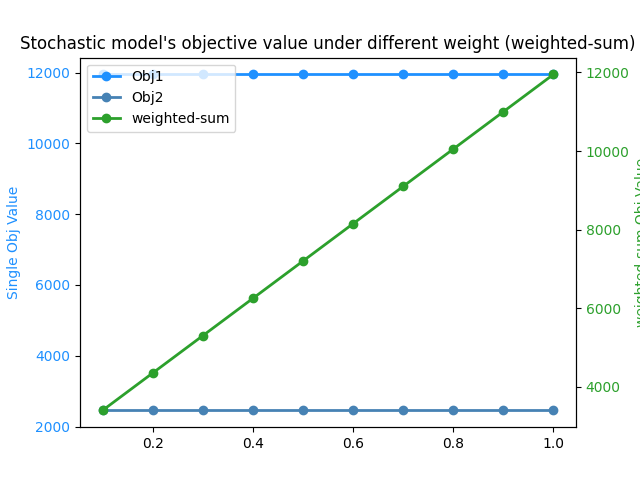
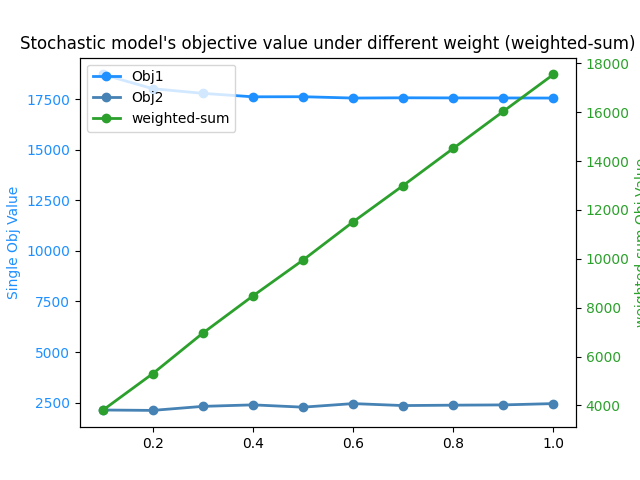
fix: report sp-model weight figures; weight analysis in report

diff --git a/sp_model.py b/sp_model.py
@@ -282,7 +282,8 @@ def draw(optimize_method: str):
     if optimize_method == 'weighted-sum':
         solvers = [solve(w, OptimizationMethod.WEIGHTED_SUM) for w in weights]
         # weighted Objs
-        wObjs = [weights[i] * solvers[i][1] + (1 - weights[i]) * solvers[i][2] for i in to_range(weights)]
+        wObjs = [weights[i] * solvers[i][1].getValue()
+        + (1 - weights[i]) * solvers[i][2].getValue() for i in to_range(weights)]
 
     elif optimize_method == 'lp-metric':
         m, obj1, obj2 = solve(1, OptimizationMethod.WEIGHTED_SUM)
@@ -294,13 +295,13 @@ def draw(optimize_method: str):
         solvers = [solve(w, OptimizationMethod.LP_METRIC,
                          objstars) for w in weights]
         # note that in lp-metrics, we need (Obj - Obj*) / Obj* instead of native Obj
-        Obj1_s = [(s[1] - obj1_star) / obj1_star for s in solvers]
-        Obj2_s = [(s[2] - obj2_star) / obj2_star for s in solvers]
+        Obj1_s = [(s[1].getValue() - obj1_star) / obj1_star for s in solvers]
+        Obj2_s = [(s[2].getValue() - obj2_star) / obj2_star for s in solvers]
         # lp-metric Objs
         wObjs = [weights[i] * Obj1_s[i] + (1 - weights[i]) * Obj2_s[i] for i in to_range(weights)]
 
-    Obj1s = [s[1] for s in solvers]
-    Obj2s = [s[2] for s in solvers]
+    Obj1s = [s[1].getValue() for s in solvers]
+    Obj2s = [s[2].getValue() for s in solvers]
     # 1/2 subplots, double y-axis
     fig, ax1 = plt.subplots()
     # drawing the obj1, obj2 in ax1 (greater numeric scale)
@@ -346,10 +347,10 @@ def draw(optimize_method: str):
 
 
 # %%
-# draw('lp-metric')
+draw('lp-metric')
 
-# %%
-# draw('weighted-sum')
+#%%
+draw('weighted-sum')
 # %%
 # wieght = 0.1
 # best_cs_n = -1

diff --git a/report.md b/report.md
@@ -14,7 +14,20 @@ Team B
 ## Table of Contents
 1. [Introduction](#Introduction)
     1.1 [Background: Disaster Relief Logistics](#Background:-Disaster-Relief-Logistics)
-    1.2 [Motivation](#Motivation)
+    1.2 [Abbreviation](#Abbreviation)
+    1.3 [Motivation](#Motivation)
+    1.4 [Problem Definition](#Problem-Definition)
+2. [Methodology](#Methodology)
+    2.1 [Formulation](#Formulation)
+    2.2 [Multi-Objective Optimization](#Multi-Objective-Optimization)
+3. [Case Study](#CaseStudy)
+    3.1 [Data Collection](#DataCollection)
+    3.2 [Implementation Details](#Implementation-Details)
+    3.3 [Result Analysis](#Result-Analysis)
+    3.4 [Weight Analysis](#weight-analysis)
+    3.5 [Constraint on Number of CS/RDC Analysis](#Constraint-on-Number-of-CS/RDC-Analysis)
+4. [Issues](#issues)
+5. [References](#References)
 
 
 ## Introduction
@@ -187,7 +200,7 @@ $$\min w * \frac{Obj_1 - Obj_1^*}{Obj_1^*} + (1 - w) * \frac{Obj_2 - Obj_2^*}{Ob
 
 
 
-## Data Collection and Analysis Result
+## Case Study
 
 ### Data Collection
 We use the data in case study from Amiri's paper. The scene is set at a well-populated region of Iran located near sourthern Central Alborz, with several active faults surrounding (hence the disaster is imagined to be an earthquake).
@@ -210,11 +223,11 @@ Note that $I$ is a subset of $J$, and $J = K$ in terms of the distance statistic
 
 <figure>
   <img
-  src="./figures/data/supplier_capacity.png">
+  src="./figures/data/supplier_capacity.png" width="200">
   <figcaption>Figure 2. Supplier and their capacity with respect to commodity type</figcaption>
 </figure>
   <img
-  src="./figures/data/rho_remains_usable.png">
+  src="./figures/data/rho_remains_usable.png" width="300">
 
   Figure 5. $\rho_{jcs}$ and $\rho_{ics}$; the fraction of stocked materials that remain usable (unit: %).
 
@@ -227,23 +240,25 @@ Note that $I$ is a subset of $J$, and $J = K$ in terms of the distance statistic
 
 <figure>
   <img
-  src="./figures/data/demand_under_scenario.png">
+  src="./figures/data/demand_under_scenario.png"
+  width="300">
   <figcaption>Figure 4. Demands of each AA under different scenarios.</figcaption>
 </figure>
-
-
-## Result Analysis
-
-### Modeling
-We start simple with a **deterministic model** first. It assumes that in the response phase, we have perfect knowledge of which scenario would happen, so the *demand, transportation cost, and the fraction of stocked materials that remain usable* are pre-determined. In the following experiments, we choose to use the scenario $s1$. We do not extensively discuss on this model but record its statistics for reference.
-Our final model is the **stochastic model**, which has the same setting as the deterministic one in preparedness phase; in response phase, it considers 4 scenarios representing earthquakes of different epicenters and potential earthquake intensity.
-
 
 ### Implementation Details
 We decide to solve the problem using Gurobi Optimization solver with the academic license. The environment is Gurobi 10.0.0 with Python 3.7.12 under the *Linux x86_64 system with 12th Gen Intel(R) Core(TM) i7-12700*.
 In Gurobi implementation, we use the `setObjectiveN()`  that defaults to weighted-sum method according to the official documentation ([gurobi doc 9.1: Working with Multiple Objective](https://www.gurobi.com/documentation/9.1/refman/working_with_multiple_obje.html)) for both weighted-sum and Lp-metric strategies.
 
-### Solution
+### Result Analysis
+
+#### Modeling
+We start simple with a **deterministic model** first. It assumes that in the response phase, we have perfect knowledge of which scenario would happen, so the *demand, transportation cost, and the fraction of stocked materials that remain usable* are pre-determined. In the following experiments, we choose to use the scenario $s1$. We do not extensively discuss on this model but record its statistics for reference.
+Our final model is the **stochastic model**, which has the same setting as the deterministic one in preparedness phase; in response phase, it considers 4 scenarios representing earthquakes of different epicenters and potential earthquake intensity.
+
+
+
+
+#### Solution
 
 The final stochastic programming model has 4,422 continuous variables and 210 binary variables; 666 quadratic constraints and 12 general constraints. The optimization procedure takes 0.81 seconds for over 4,000 simplex iterations. The below shows the statistics for the configuration:
 ```
@@ -253,35 +268,35 @@ number of CS (epsilon) = 8
 optimization method: Lp-metric
 ```
 As seen in figure [alpha_beta], there are 8 CSs and 7 RDCs opened, which means that each node in candidate node set $J$ must be either a RDC or a CS. It is observed that all of the values in $Q_ijc$ are zeros, meaning that none of the commodities are stored in the preparedness phase. All the shippings start from the response phase.
+![alt text](./figures/results/alpha_beta.png)
 Figure [X_ijcs] shows the amount of commodity $c$ shipped from supplier $i$ to RDC in $j$ under scenario $s$. Here we <span style="color:red"> discover that RDC does not receive anything in both phases, so the figure only shows columns of CSs.</span> We could see that the supplier in Sari ships 117 units of food under all scenarios; 39 units of shelter under scneario 3 and 4; 0 water under scneario 1 and 117 units of water under the rest, to the CS in the same province. Averagely speaking, the 3 commdoites sent to the same CS are usually supplied by the same supplier.
-
+![alt text](./figures/results/X_ijcs.png)
 Figure [Y_jkcs] shows the amount of commodity $c$ shipped from RDC $j$ to AA $k$ under scenario $s$. It is calculated that commodity water and food have 636 units per shipping, while shelter ships 184.24 per shipping. It may be that Shelter costs the most for transportation compared to the other 2.
 
-Figure [I_kcs] and [b_kcs] represent the inventory and shortage amount held at AA $k$ under scenario $s$. The shortage amount 
 
-![alt text](./figures/results/alpha_beta.png)
 <!-- <img src="./figures/results/alpha_beta.png" width="300" /> -->
 
-
-![alt text](./figures/results/X_ijcs.png)
 ![alt text](./figures/results/Y_jkcs.png)
 
+Figure [I_kcs] and [b_kcs] represent the inventory and shortage amount held at AA $k$ under scenario $s$. The inventory balance equation constraint regulates that $I_{kcs} - b_{kcs}$ should equal to the total amount of commdoities sent in minus those in store; holding inventory and having shortage all have a penalty cost exerted on objective 1. We could observed that due to high transportation cost on shelters, the shortage of shelter is prevalent for all AAs and no AAs hold shelter inventory.
 
-![alt text](./figures/results/b_kcs_0.png)
-![alt text](./figures/results/b_kcs_1.png)
 ![alt text](./figures/results/I_kcs_0.png)
 ![alt text](./figures/results/I_kcs_1.png)
+![alt text](./figures/results/b_kcs_0.png)
+![alt text](./figures/results/b_kcs_1.png)
 
 ### Weight Analysis
-@Nana
+
 | | Lp-metric  &nbsp; &nbsp;| Weighted-sum &nbsp; &nbsp; |
 | :------------ | :-------------------------:| :-------------:|
 Deterministic |![](./figures/dm_lp-metric.png)  |  ![](./figures/dm_weighted-sum.png)
 Stochastic |![](./figures/sp_lp-metric.png)  |  ![](./figures/sp_weighted-sum.png)
 
-Before analysis, it should be first noted that the numeric scales for both objectives are different; Objective 1 accumulates all costs so it is at around $10^4$, while Objective 2 is around $10^3$ (5 times smaller). Therefore, the Lp-metric which aims to minimize the digression between the objectives and their ideal solution is more suitable for this problem.
+With single-objective optimization, we can minimize the total costs to $11,950$ ($10^6\$$) and the maximum shortage costs to $1,364$ ($10^6\$$) for stochastic model with Lp-metric. The combined objective of weighted-sum and Lp-metrics are then chosen to use to coordinate the 2 objectives.
+In terms of the modeling method, the stochastic model gives more fluctuating line than the deterministic one. In terms of the optimization method, the weighted sum gives a very stable tendency; as $w$ increases, objective 1 is placed more weight and therefore the weighted objective grows rapidly. Due to the different numeric scales for both objectives; objective 1 accumulates all costs so it falls around $10^4$, while objective 2 is around $10^3$ (5 times smaller). Therefore, the Lp-metric, which aims to minimize the digression between the objective and its ideal solution, is more suitable for this problem. The overall tendency of the 2 optimization methods are the opposite: as $w$ increases, weighted-sum objective grows, while Lp-metric objective decreases.
+As for the single-objectives, it's clear that objective 1 and 2 have a trade-off in=between. A higher total cost leads to higher satisfaction (less shortage in AAs), vice versa.
 
-In terms of the modeling method, the stochastic model gives more flunctuating line than the deterministic one. With single-objective optimization, we can minimize the total costs to $11,950$ ($10^6\$$) and the maximum shortage costs to $1364$ ($10^6\$$).
+
 
 ### Constraint on Number of CS/RDC Analysis
 Stochastic Model
@@ -290,14 +305,18 @@ Stochastic Model
 w/o Delta(δ) |![](./figures/sp_cs_limited.png)  |  ![](./figures/sp_rdc_limited.png)  |  ![](./figures/sp_cs_rdc_limited.png) |
 w/ Delta(δ)|![](./figures/sp_cs_limited-delta.png)  |  ![](./figures/sp_rdc_limited-delta.png)  |  ![](./figures/sp_cs_rdc_limited-delta.png) |
 
-the deviation (δ) is indicating an increased commodity inventory penalized by the last
-term of the first objective function. It can be observed from the chart that after adding the delta term, the model can be further optimized.
+The deviation ($\delta$) indicates an increased commodity inventory penalized by the last
+term of the first objective function. It can be observed that after adding the penalty term, the model can be further optimized.
 
 
 
-### Issues
+## Issues
 
 A node could be a RDC, a CS or a null node that does not open any centers, however, our model only allows a node to be either a RDC or a CS. We attempt to fix the problem by adding the penalty term $\delta$, and let the model optimize for infeasibility. Unfortunately, the model still goes infeasible under conditions that the numbers of CS and RDC do not sum to the total number of candidate nodes ($|J|$).
+
+## Conclusion
+
+Our lp-metric with w tendency is the same as Amiri's paper fig 7.
 
 ## References
 - Bozorgi-Amiri, A., Jabalameli, M.S. & Mirzapour Al-e-Hashem, S.M.J. A multi-objective robust stochastic programming model for disaster relief logistics under uncertainty. OR Spectrum 35, 905–933 (2013).[link](https://doi.org/10.1007/s00291-011-0268-x)
